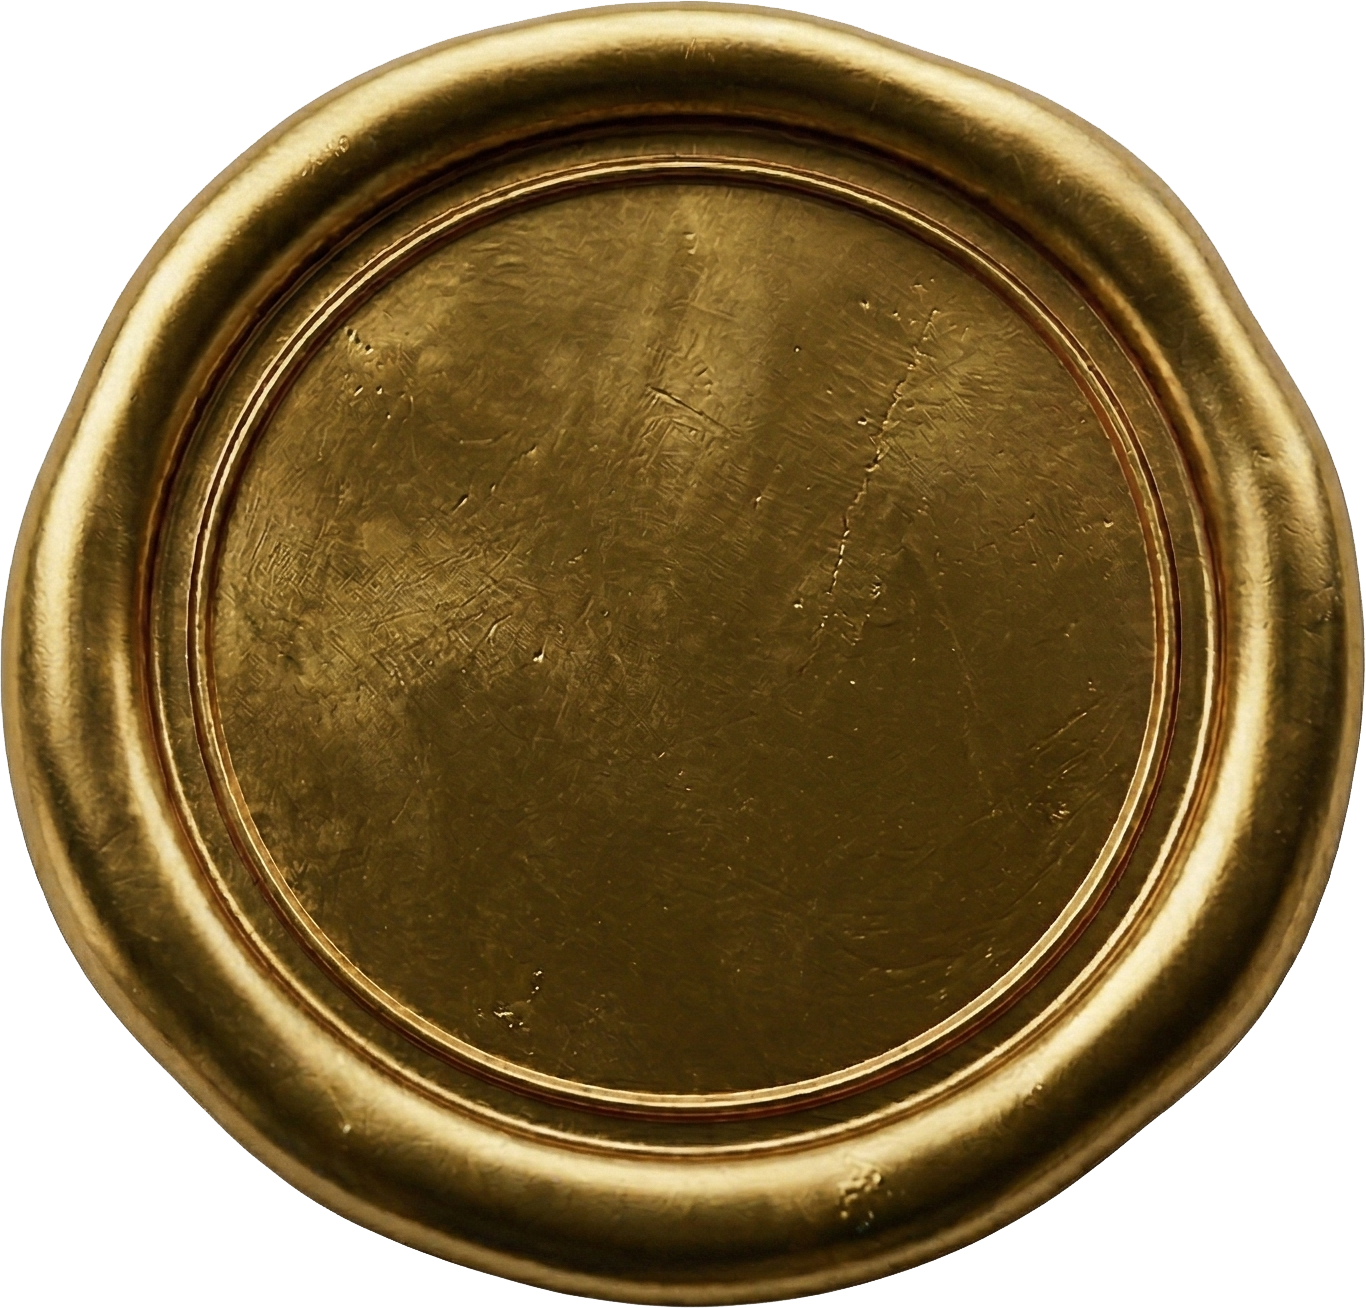
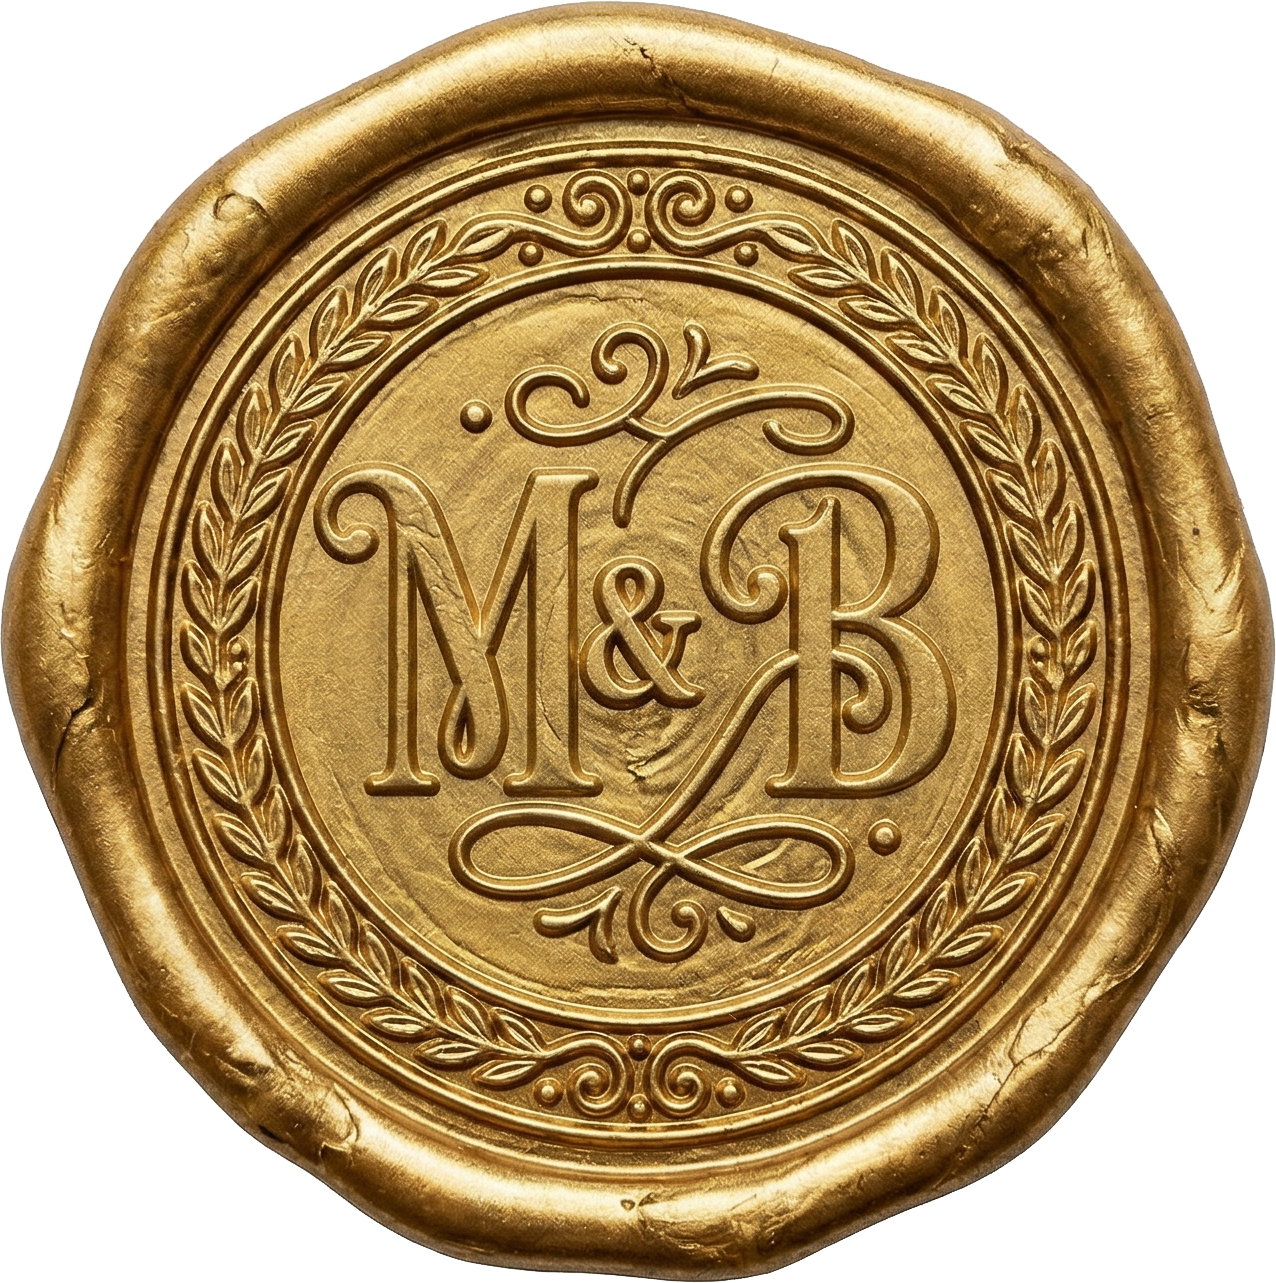
Updated the wax seal and comented the seal text

diff --git a/components/envelope-opening.tsx b/components/envelope-opening.tsx
@@ -119,25 +119,23 @@ export default function EnvelopeOpening({
           />
 
           {/* The M&B Initials perfectly centered over the image */}
-          <span
+          {/* <span
             className="relative z-10 flex items-baseline tracking-wider"
             style={{
               fontFamily: "'Brush Script MT', cursive",
-              /* Golden fill with ~20% opacity (0.2) */
+             
               color: "rgba(238, 238, 231, 0.88)",
               WebkitTextStroke: "0.5px rgba(142, 142, 26, 0.83)",
               filter: "drop-shadow(1px 2px 2px rgba(0,0,0,0.8)) drop-shadow(-1px -1px 1px rgba(255,255,255,0.3))"
             }}
           >
-            {/* Larger Initials */}
+            
             <span className="text-4xl sm:text-5xl">M</span>
 
-            {/* Smaller Ampersand */}
             <span className="text-1xl sm:text-3xl px-1">&</span>
 
-            {/* Larger Initials */}
             <span className="text-4xl sm:text-5xl">B</span>
-          </span>
+          </span> */}
 
         </div>
       </motion.div>